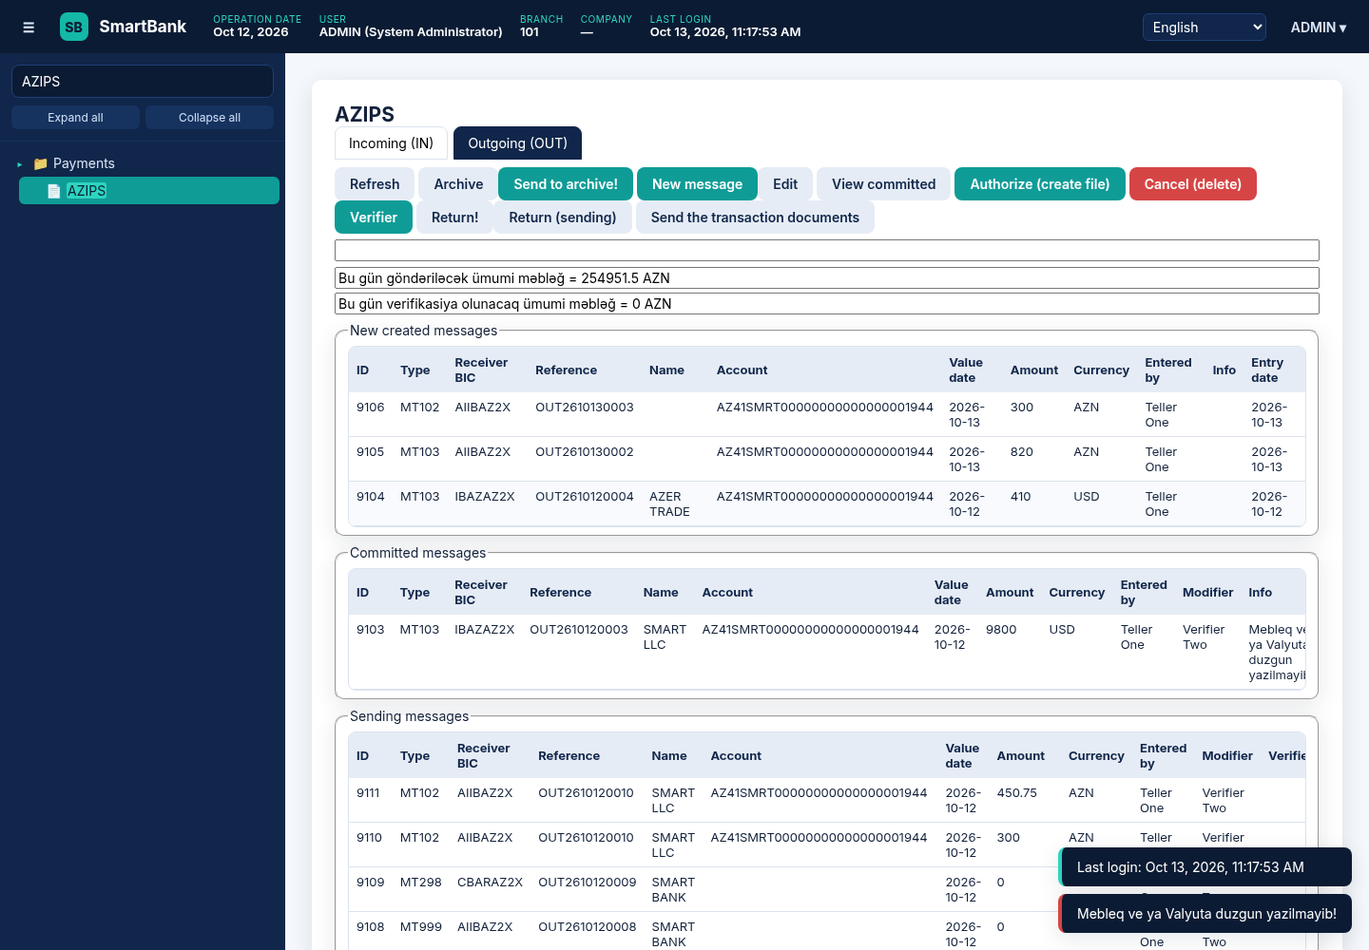
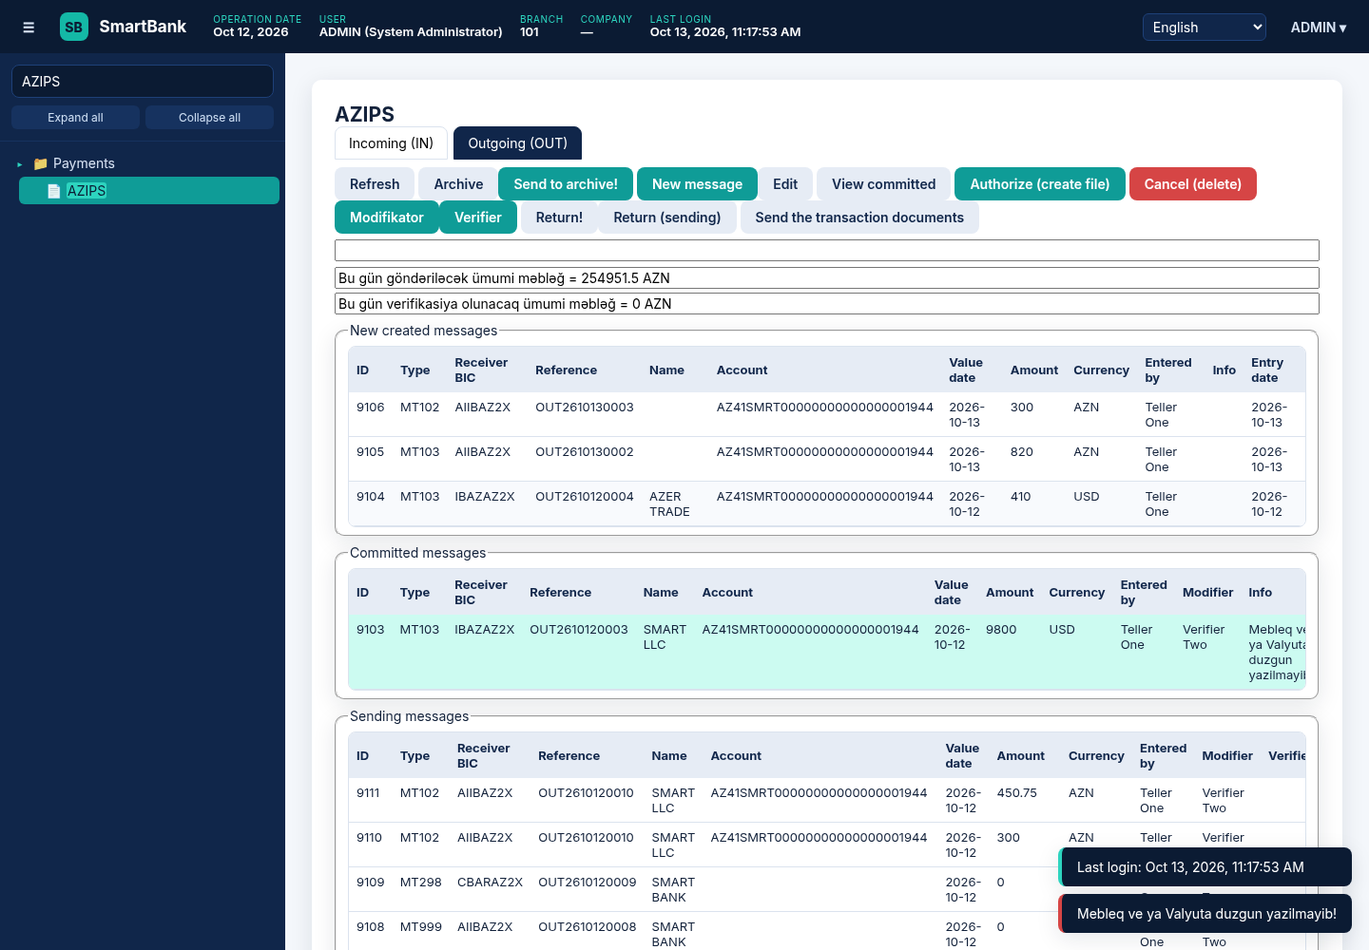
AZIPS part 4b-1: multi-select + Yes to all for row actions; Modifikator (ToolButton11Click -> addtrans2Execute :5146) via setprow/transac + sw_main.add_transaction; screenshots 119-121

Changed region(s): [[0.25, 0.62, 0.9688, 0.744], [0.25, 0.186, 0.7188, 0.248]]

diff --git a/smartbank-web/web/public/modules/azips.js b/smartbank-web/web/public/modules/azips.js
@@ -21,6 +21,40 @@
       <tbody>${rows.map((r, i) => `<tr data-i="${i}">${cols.map(c => `<td>${esc(val(r, c) ?? '')}</td>`).join('')}</tr>`).join('')
       || `<tr><td colspan="${cols.length}" class="muted">${esc(K('empty'))}</td></tr>`}</tbody></table>`;
   }
+  // dgMultiSelect grid (Grid_out, GRIDOUT2, Gridin): click = current row, Ctrl+click toggles SelectedRows (TBookmarkList)
+  function multi(tb, rows, st, key) {
+    const ms = key + '_m';
+    st[ms] = (st[ms] || []).filter(id => rows.some(r => r.id === id));
+    if (!rows.some(r => r.id === st[key])) st[key] = null;
+    const mark = () => tb.querySelectorAll('tbody tr[data-i]').forEach(tr => {
+      const id = rows[+tr.dataset.i].id; tr.classList.toggle('sel', st[ms].includes(id) || id === st[key]);
+    });
+    tb.querySelectorAll('tbody tr[data-i]').forEach(tr => tr.addEventListener('click', (e) => {
+      const id = rows[+tr.dataset.i].id;
+      if (e.ctrlKey || e.metaKey) st[ms] = st[ms].includes(id) ? st[ms].filter(x => x !== id) : [...st[ms], id];
+      else st[ms] = [id];
+      st[key] = id; mark();
+    }));
+    mark();
+  }
+  // MessageDlg(mtConfirmation, [mbYes, mbNo, mbCancel(, mbYesToAll)]) -> 'yes' | 'no' | 'cancel' | 'all'
+  function dlg(text, yesAll, noNo) {
+    return new Promise(res => modal(`<p>${esc(text)}</p><div class="actions">
+      <button class="btn" data-a="yes">${esc(K('yes'))}</button>${noNo ? '' : `<button class="btn secondary" data-a="no">${esc(K('no'))}</button>`}
+      <button class="btn secondary" data-a="cancel">${esc(K('cancel'))}</button>${yesAll ? `<button class="btn" data-a="all">${esc(K('yes_all'))}</button>` : ''}</div>`,
+      (m, close) => m.querySelectorAll('button[data-a]').forEach(b => b.onclick = () => { close(); res(b.dataset.a); })));
+  }
+  // The Delphi loop: per selected row (grid order) ask; mbYesToAll -> second dialog '%d sayda ...' with Count-Index (Yes / Cancel)
+  async function ask(ids, q, qa) {
+    const answers = [];
+    for (let i = 0; i < ids.length; i++) {
+      let a = await dlg(K(q).replace('%d', ids[i]), !!qa);
+      if (a === 'all') a = (await dlg(K(qa).replace('{n}', ids.length - i), false, true)) === 'yes' ? 'all' : 'all_no';
+      answers.push(a);
+      if (a === 'cancel' || a === 'all') break;
+    }
+    return answers;
+  }
   async function page(el) {
     const st = { tab: 'out', d: null, in_order: '', in2: '' };
     el.innerHTML = `<div class="card"><div class="toolbar" style="gap:8px"><h2 style="margin:0">${esc(K('title'))}</h2></div>
@@ -44,10 +78,8 @@
         v('g_in2').querySelectorAll('th[data-s]').forEach(h => h.onclick = () => { st.in2 = h.dataset.s; load({}); });
         v('z_arxin').onclick = () => arch('in');
         v('z_konv').onclick = () => v('z_konvf').click();
-        v('g_in').querySelectorAll('tbody tr[data-i]').forEach(tr => tr.onclick = () => {
-          v('g_in').querySelectorAll('tr').forEach(x => x.classList.toggle('sel', x === tr)); st.sel_in = d.sw_in[+tr.dataset.i].id;
-        });
-        v('z_indel').onclick = () => act('in_delete', st.sel_in, 'q_delete');      // ToolButton6Click -> DeleteExecute
+        multi(v('g_in'), d.sw_in, st, 'sel_in');
+        v('z_indel').onclick = () => act('in_delete', 'sel_in', 'q_delete', 'qa_delete');      // ToolButton6Click -> DeleteExecute
         v('z_konvf').onchange = (e) => { const f = e.target.files[0]; e.target.value = ''; if (f) konvert(f); };
       } else {
         v('zbody').innerHTML = `<div class="toolbar" style="gap:8px"><button class="btn secondary" id="z_ref">${esc(K('refresh'))}</button>
@@ -55,7 +87,7 @@
           <button class="btn" id="z_new">${esc(K('new_msg'))}</button><button class="btn secondary" id="z_edit">${esc(K('edit_msg'))}</button>
           <button class="btn secondary" id="z_view">${esc(K('view_msg'))}</button>
           <button class="btn" id="z_file" title="${esc(K('file_hint'))}">${esc(K('create_file'))}</button>
-          <button class="btn danger" id="z_odel">${esc(K('delete'))}</button><button class="btn" id="z_verify">${esc(K('verify'))}</button>
+          <button class="btn danger" id="z_odel">${esc(K('delete'))}</button><button class="btn" id="z_modif">${esc(K('modif'))}</button><button class="btn" id="z_verify">${esc(K('verify'))}</button>
           <button class="btn secondary" id="z_back">${esc(K('back'))}</button><button class="btn secondary" id="z_sback">${esc(K('sending_back'))}</button>
           <button class="btn secondary" id="z_tsend">${esc(K('transend'))}</button></div>
           <input class="input" readonly id="z_memo2" style="width:100%;margin-top:6px" value="${esc(st.memo2 || '')}">
@@ -63,10 +95,7 @@
           <input class="input" readonly id="z_s2" style="width:100%;margin-top:4px" value="${esc(d.sum_verify_text != null ? 'Bu gün verifikasiya olunacaq ümumi məbləğ = ' + d.sum_verify_text + ' AZN' : '')}">
           ${box(K('box_out'), table('g_out', C.out, d.sw_out))}${box(K('box_out2'), table('g_out2', C.out2, d.sw_out_2))}${box(K('box_out3'), table('g_out3', C.out3, d.sw_out3))}`;
         v('z_arxout').onclick = () => arch('out');
-        const pick = (gid, rows, key) => v(gid).querySelectorAll('tbody tr[data-i]').forEach(tr => tr.onclick = () => {
-          v(gid).querySelectorAll('tr').forEach(x => x.classList.toggle('sel', x === tr)); st[key] = rows[+tr.dataset.i].id;
-        });
-        pick('g_out', d.sw_out, 'sel_out'); pick('g_out2', d.sw_out_2, 'sel_out2');
+        multi(v('g_out'), d.sw_out, st, 'sel_out'); multi(v('g_out2'), d.sw_out_2, st, 'sel_out2');
         // Gridout3 (dgMultiSelect): click = current row, Ctrl+click toggles a selected row (TBookmarkList)
         st.sel3 = (st.sel3 || []).filter(id => d.sw_out3.some(r => r.id === id));
         const mark3 = () => v('g_out3').querySelectorAll('tbody tr[data-i]').forEach(tr => {
@@ -80,11 +109,12 @@
         });
         mark3();
         v('z_file').onclick = () => createFiles(d);
-        v('z_odel').onclick = () => act('out_delete', st.sel_out, 'q_delete');          // ToolButton9Click -> out_deleteExecute
-        v('z_back').onclick = () => act('out_back', st.sel_out2, 'q_back');             // opendayClick -> backClick -> geriExecute
+        v('z_odel').onclick = () => act('out_delete', 'sel_out', 'q_delete', 'qa_delete');
+        v('z_modif').onclick = () => act('modifikator', 'sel_out', 'q_modif', 'qa_modif');        // ToolButton11Click -> addtrans2Execute          // ToolButton9Click -> out_deleteExecute
+        v('z_back').onclick = () => act('out_back', 'sel_out2', 'q_back', 'qa_back');             // opendayClick -> backClick -> geriExecute
         v('z_verify').onclick = () => verify(d);                                        // ToolButton13Click -> commitingExecute + Form12
-        v('z_sback').onclick = () => act('sending_back', st.cur3, null);                // Geriqaytar1Click
-        v('z_tsend').onclick = () => act('transend', st.sel_out, null);                 // mliyyatGnnsndlringondrm1Click
+        v('z_sback').onclick = () => act('sending_back', null, null, null, st.cur3);                // Geriqaytar1Click
+        v('z_tsend').onclick = () => act('transend', null, null, null, st.sel_out);                 // mliyyatGnnsndlringondrm1Click
         const AE = window.SB.azipsEdit;
         const AN = window.SB.azipsNew;
         v('z_new').onclick = () => AN.open('1', 'toolbutton1', () => load({}));   // toolbar 'Yeni' = ToolButton1Click -> filereport.bpl 'Azipsnew' '1'
@@ -101,30 +131,50 @@
       v('z_ref').onclick = () => load({});
     }
     // part 4a row actions (api/app/azips_actions.py): MessageDlg per row -> answers sent with the request
-    async function act(kind, id, q, form12) {
-      if (id == null) return toast(K('pick_row'), 'error');
-      if (q && !confirm(K(q).replace('%d', id))) return;
+    // selected ids in grid order (TBookmarkList is sorted); none selected -> current row
+    function chosen(key) {
+      const rows = { sel_out: st.d.sw_out, sel_out2: st.d.sw_out_2, sel_in: st.d.sw_in }[key] || [];
+      const m = st[key + '_m'] || [];
+      return m.length ? rows.map(r => r.id).filter(id => m.includes(id)) : (st[key] != null ? [st[key]] : []);
+    }
+    async function act(kind, key, q, qa, single, form12, answers) {
+      const ids = key ? chosen(key) : (single != null ? [single] : []);
+      if (!ids.length) return toast(K('pick_row'), 'error');
+      if (q && !answers) { answers = await ask(ids, q, qa); if (!answers.some(a => a === 'yes' || a === 'all')) return; }
       try {
-        const r = await api(P + '/action', { method: 'POST', body: { kind, current: id, answers: (q || kind === 'out_commit') ? ['yes'] : [], form12: form12 || [] } });
+        const r = await api(P + '/action', { method: 'POST', body: { kind, selected: key ? (st[key + '_m'] || []) : [], current: key ? st[key] : single,
+          answers: answers || [], form12: form12 || [] } });
         if (r.memo2) st.memo2 = r.memo2;
         if (r.message) toast(r.message, r.wrong ? 'error' : undefined); else toast(K('done'));
+        if (key) st[key + '_m'] = [];
       } catch (e) { toast(errT(e), 'error'); }
       load({});
     }
+    // commitingExecute: [mbYes, mbNo, mbCancel] per row (no YesToAll), Form12 for each Yes; 'Çıx' or a mismatch exits the loop
     async function verify(d) {
-      const id = st.sel_out2;
-      if (id == null) return toast(K('pick_row'), 'error');
-      if (!confirm(K('q_verify').replace('%d', id))) return;
+      const ids = chosen('sel_out2');
+      if (!ids.length) return toast(K('pick_row'), 'error');
       let cur = [];
       try { cur = await api(P + '/commit-currencies'); } catch (e) { return toast(errT(e), 'error'); }
-      modal(`<h3>Avtorizasiya</h3><div class="toolbar" style="gap:8px"><select class="input" id="f12c">${cur.map(c => `<option>${esc(c)}</option>`).join('')}</select>
-        <input class="input" id="f12a" inputmode="decimal" placeholder="${esc(K('amount'))}"></div>
-        <div class="actions"><button class="btn" id="f12ok">Təsdiq et</button><button class="btn secondary" id="f12x">Çıx</button></div>`, (m, close) => {
-        const a = m.querySelector('#f12a');
-        a.onkeypress = (e) => { if (!/[0-9.]/.test(e.key)) e.preventDefault(); };      // Edit1KeyPress: 0..9, #8, '.'
-        m.querySelector('#f12ok').onclick = () => { close(); act('out_commit', id, null, [{ amount: a.value, curr: m.querySelector('#f12c').value }]).then(() => {}); };
-        m.querySelector('#f12x').onclick = () => { close(); act('out_commit', id, null, [{ close: true }]); };
-      });
+      const answers = [], forms = [];
+      for (const id of ids) {
+        const a = await dlg(K('q_verify').replace('%d', id), false);
+        answers.push(a);
+        if (a === 'cancel') break;
+        if (a !== 'yes') continue;
+        const f = await new Promise(res => modal(`<h3>Avtorizasiya #${esc(id)}</h3><div class="toolbar" style="gap:8px"><select class="input" id="f12c">${cur.map(c => `<option>${esc(c)}</option>`).join('')}</select>
+          <input class="input" id="f12a" inputmode="decimal" placeholder="${esc(K('amount'))}"></div>
+          <div class="actions"><button class="btn" id="f12ok">Təsdiq et</button><button class="btn secondary" id="f12x">Çıx</button></div>`, (m, close) => {
+          const a = m.querySelector('#f12a');
+          a.onkeypress = (e) => { if (!/[0-9.]/.test(e.key)) e.preventDefault(); };      // Edit1KeyPress: 0..9, #8, '.'
+          m.querySelector('#f12ok').onclick = () => { close(); res({ amount: a.value, curr: m.querySelector('#f12c').value }); };
+          m.querySelector('#f12x').onclick = () => { close(); res({ close: true }); };
+        }));
+        forms.push(f);
+        if (f.close) break;
+      }
+      if (!answers.includes('yes')) return;
+      act('out_commit', 'sel_out2', null, null, null, forms, answers);
     }
     async function load(extra) {
       try {

diff --git a/smartbank-web/api/app/azips_actions.py b/smartbank-web/api/app/azips_actions.py
@@ -173,3 +173,48 @@ def transend(conn, restricted, current):
         return {"done": []}
     conn.call_proc(Q.PKG_MAIN, "transend", [current, 999], commit=False)
     return {"done": [current]}
+
+
+# ------------------------------------------------------------------ part 4b: Modifikator
+import re as _re
+_IDENT = _re.compile(r"[A-Za-z][A-Za-z0-9_$#]{0,29}")
+
+
+class ProwError(ValueError):
+    """sw_prow column name that is not a plain Oracle identifier (Delphi would concatenate it into SQL as is)."""
+
+
+def modifikator(conn, restricted, selected, current, answers):
+    """ToolButton11Click :3097 (SW_OUT_COMMIT right; empty grid -> ShowMessage 'Heç bir format yoxdur!') ->
+    addtrans2Execute :5146-5260: per selected grid_out row, setprow(:Q = MESSAGETYPE), transac SQL[0] rebuilt from the
+    sw_prow column names, sw_main.add_transaction(ID, debet, kredit, summa, MF32A_DATE, DESTINATION, vbic, tax, k1);
+    one SBSession.Commit after the loop. vbic is only assigned when KREDIT = 'RECEIVERBIC' and keeps its value for the
+    following rows (local string, '' at start); k1 is never assigned (WorldCheck commented out) -> 0."""
+    conn.call_proc("SB_ACA", "CheckAdvancedObjectAccess", ["SW_OUT_COMMIT"])
+    rows = _rows(conn, Q.LINES_SW_OUT, restricted)
+    if not rows:
+        return {"done": [], "message": AZN_NO_FORMAT}
+    by_id = {r.get("ID"): r for r in rows}
+    sel = _pick(rows, selected, current)
+    st = {"vbic": ""}
+
+    def one(tid):
+        g = by_id[tid]
+        p = (conn.query(Q.text(Q.LINES_SETPROW), {"Q": str(g.get("MESSAGETYPE") or "")}) or [{}])[0]
+        kredit = str(p.get("KREDIT") or "")
+        if kredit.strip() == "RECEIVERBIC":
+            st["vbic"] = "BIC"
+        debet, summa = str(p.get("DEBET") or ""), str(p.get("SUMM") or "")
+        for x in (kredit, debet, summa):
+            if not _IDENT.fullmatch(x):
+                raise ProwError(x)
+        t = (conn.query(Q.transac_sql0(kredit, debet, summa), {"ids1": int(g.get("ID") or 0)}) or [{}])[0]
+        sm = t.get("SUMMA")
+        conn.call_proc(Q.PKG_MAIN, "add_transaction",
+                       [int(t.get("ID") or 0), str(t.get("DEBET") or ""), str(t.get("KREDIT") or ""),
+                        float(sm) if sm is not None else 0.0, g.get("MF32A_DATE"), str(t.get("DESTINATION") or ""),
+                        st["vbic"], str(g.get("TAX") or ""), 0], commit=False)
+
+    done, _ = _run(sel, answers, one)
+    conn.commit()
+    return {"done": done, "message": None}

diff --git a/smartbank-web/e2e/azips_actions_screens.py b/smartbank-web/e2e/azips_actions_screens.py
@@ -1,4 +1,4 @@
-"""AZIPS part 4a E2E + screenshots: Verifikator + Form12 (commitingExecute / yoxp.pas) with a wrong amount, and Ləğv et (out_delete)."""
+"""AZIPS part 4a/4b E2E (multi-select + Yes to all, Modifikator) + screenshots: Verifikator + Form12 (commitingExecute / yoxp.pas) with a wrong amount, and Ləğv et (out_delete)."""
 import os, sys
 from playwright.sync_api import sync_playwright
 BASE = sys.argv[1] if len(sys.argv) > 1 else "http://localhost:3000"
@@ -13,12 +13,20 @@ with sync_playwright() as p:
     pg.fill("#u", "ADMIN"); pg.fill("#p", "Admin#2026"); pg.click("#loginBtn"); pg.wait_for_selector("#tree .node")
     pg.fill("#treeSearch", "AZIPS"); pg.wait_for_timeout(300)
     pg.locator("#tree .node[data-path='9.0']").click(); pg.wait_for_selector("#g_out2 tr[data-i='0']")
-    pg.click("#g_out2 tr[data-i='0']"); pg.click("#z_verify"); pg.wait_for_selector("#f12a")
+    pg.click("#g_out2 tr[data-i='0']"); pg.click("#z_verify"); pg.click("button[data-a='yes']"); pg.wait_for_selector("#f12a")
     pg.fill("#f12a", "1"); shot(pg, "114-azips-verifikator-form12.png")
     pg.click("#f12ok"); pg.wait_for_timeout(800)
     assert "Mebleq ve ya Valyuta duzgun yazilmayib!" in pg.inner_text("#g_out2")
     shot(pg, "115-azips-verifikator-wrong-amount.png")
-    pg.click("#g_out tr[data-i='0']"); pg.click("#z_odel"); pg.wait_for_timeout(800)
+    # Modifikator on two Ctrl+selected rows: Yes to all -> '2 sayda ...' second dialog
+    pg.click("#g_out tr[data-i='0']"); pg.click("#g_out tr[data-i='1']", modifiers=["Control"])
+    assert pg.locator("#g_out tr.sel").count() == 2
+    pg.click("#z_modif"); pg.wait_for_selector("button[data-a='all']"); shot(pg, "119-azips-modifikator-yes-to-all.png")
+    pg.click("button[data-a='all']"); pg.wait_for_selector(".modal p")
+    assert "2" in pg.inner_text(".modal p"); shot(pg, "120-azips-modifikator-confirm-all.png")
+    pg.click("button[data-a='yes']"); pg.wait_for_timeout(800)
+    shot(pg, "121-azips-modifikator-done.png")
+    pg.click("#g_out tr[data-i='0']"); pg.click("#z_odel"); pg.click("button[data-a='yes']"); pg.wait_for_timeout(800)
     assert pg.input_value("#z_memo2")
     shot(pg, "116-azips-out-delete.png")
     b.close()

diff --git a/smartbank-web/api/app/db/mock_azips.py b/smartbank-web/api/app/db/mock_azips.py
@@ -219,6 +219,12 @@ def _azf_query(D, sql, L, b):
     if sql == Q.text(Q.LINES_SW_SETTINGS):
         return [dict(D["sw_settings"])]
     sel = lambda ref: [r for r in D["sw_out_new"] if r.get("MF20_REFERENCE") == ref]      # noqa: E731
+    if L[0] == Q.LINES_SETPROW[0]:          # part 4b, illustrative sw_prow
+        return [dict(r) for r in D.get("sw_prow", []) if r["FORMAT"] == b.get("Q")]
+    m = re.fullmatch(r"select a\.(\w+) as kredit, a\.(\w+) as debet, a\.(\w+) as summa, a\.mf70 as destination, id  from sw_out_new a where a\.id=:ids1 ", sql)
+    if m:
+        return [{"KREDIT": r.get(m.group(1)), "DEBET": r.get(m.group(2)), "SUMMA": r.get(m.group(3)), "DESTINATION": r.get("MF70"),
+                 "ID": r["ID"]} for r in D["sw_out_new"] if r["ID"] == b.get("ids1")]
     if L[0] == Q.LINES_MT102DATA[0]:
         return _rows([r for r in sel(b.get("refer")) if r["MESSAGETYPE"] == "MT102" and r["STATUS"] == 1])
     if L[0] == Q.LINES_MT102SUM[0]:
@@ -259,11 +265,12 @@ def _azf_proc(D, key, args):
         return {}
     # part 4a, illustrative only (sw_main body not in the repo)
     if key in ("SW_MAIN.SW_OUT_DELETE", "SW_MAIN.SW_OUT_BACK", "SW_MAIN.SW_OUT_COMMIT", "SW_MAIN.TRANSEND",
-               "SW_MAIN.DEL_STD_TRANSACTION"):
+               "SW_MAIN.DEL_STD_TRANSACTION", "SW_MAIN.ADD_TRANSACTION"):
         D.setdefault("in_calls", []).append([key, list(args)])
         rid = args[1] if key == "SW_MAIN.DEL_STD_TRANSACTION" else args[0]
         new = {"SW_MAIN.SW_OUT_DELETE": 96, "SW_MAIN.SW_OUT_BACK": 2, "SW_MAIN.SW_OUT_COMMIT": 1,
-               "SW_MAIN.TRANSEND": None, "SW_MAIN.DEL_STD_TRANSACTION": 5}[key]
+               "SW_MAIN.TRANSEND": None, "SW_MAIN.DEL_STD_TRANSACTION": 5,
+               "SW_MAIN.ADD_TRANSACTION": 5}[key]
         for r in D["sw_out_new"]:
             if r["ID"] == rid and new is not None:
                 r["STATUS"] = new

diff --git a/smartbank-web/api/tests/test_azips_actions.py b/smartbank-web/api/tests/test_azips_actions.py
@@ -67,3 +67,28 @@ def test_in_delete_and_currencies():
     r = A.in_delete(c, list(Q.LINES_SW_IN), [i[0]], None, ["yes"])
     assert r["done"] == [i[0]] and i[0] not in ids(c, Q.LINES_SW_IN)
     assert A.commit_currencies(c)
+
+
+def test_modifikator_add_transaction():
+    """addtrans2Execute :5146: setprow(:Q=MESSAGETYPE) -> transac SQL[0] -> sw_main.add_transaction(...); vbic 'BIC' when
+    KREDIT='RECEIVERBIC'; k1 = 0; YesToAll = no further questions."""
+    c = conn(); rows = c.query(Q.text(Q.LINES_SW_OUT)); out = [r["ID"] for r in rows]
+    r = A.modifikator(c, False, out, None, ["all"])
+    assert r["done"] == out
+    adds = [a for k, a in calls() if k == "SW_MAIN.ADD_TRANSACTION"]
+    assert len(adds) == len(out)
+    x = rows[0]
+    assert adds[0][:4] == [x["ID"], x["MF50_ACCOUNT"], x["RECEIVERBIC"], float(x["MF32A_AMOUNT"])]
+    assert adds[0][5] == (x.get("MF70") or "") and adds[0][6] == "BIC" and adds[0][8] == 0
+
+
+def test_modifikator_empty_and_bad_prow():
+    c = conn()
+    for r in mock_azips._load()["sw_out_new"]:
+        r["STATUS"] = 1
+    assert A.modifikator(c, False, [], None, [])["message"] == A.AZN_NO_FORMAT
+    c = conn(); mock_azips._load()["sw_prow"][0]["DEBET"] = "x from dual--"
+    out = [r["ID"] for r in c.query(Q.text(Q.LINES_SW_OUT)) if r["MESSAGETYPE"] == "MT103"]
+    import pytest
+    with pytest.raises(A.ProwError):
+        A.modifikator(c, False, out[:1], None, ["yes"])

diff --git a/smartbank-web/api/app/azips.py b/smartbank-web/api/app/azips.py
@@ -192,7 +192,7 @@ class Form12In(BaseModel):
 
 
 class ActionIn(BaseModel):
-    kind: Literal["out_delete", "out_back", "out_commit", "in_delete", "sending_back", "transend"]
+    kind: Literal["out_delete", "out_back", "out_commit", "in_delete", "sending_back", "transend", "modifikator"]
     selected: list[int] = Field(default_factory=list, max_length=1000)
     current: int | None = None
     answers: list[Literal["yes", "no", "cancel", "all", "all_no"]] = Field(default_factory=list, max_length=1000)
@@ -283,6 +283,11 @@ def make_router(current, require_module, err):
             return A.in_delete(c, lines, b.selected, b.current, b.answers)
         if b.kind == "sending_back":
             return A.sending_back(c, rs, b.current)
+        if b.kind == "modifikator":
+            try:
+                return A.modifikator(c, rs, b.selected, b.current, b.answers)
+            except A.ProwError:
+                err(400, "azips.prow_bad")
         return A.transend(c, rs, b.current)
 
     @r.get("/commit-currencies")

diff --git a/smartbank-web/api/app/azips_sql.py b/smartbank-web/api/app/azips_sql.py
@@ -74,3 +74,14 @@ BRANCH_LINE = 'and branch  = (SELECT filialid FROM sba_objinf WHERE obj = (SELEC
 PKG_MAIN = 'sw_main'          # Unit2.dfm:920-922 sw_in_insert TOraclePackage PackageName
 # Unit2.dfm:5043-5046 ValuteForCommit (yoxp.pas Form12 DBLookupComboBox1: KeyField VALU_NAME, ListField VAL_NAME)
 LINES_VALUTEFORCOMMIT = ['select * from avalute', '']
+
+# part 4b: Modifikator (addtrans2Execute :5146) - Unit2.dfm:3669-3671 setprow, :3729-3731 transac (SQL[0] rebuilt at :5205-5207)
+LINES_SETPROW = ['select * from sw_prow where format=:Q']
+LINES_TRANSAC = ['select  *  from  sw_out_new where id=:ids1']
+
+
+def transac_sql0(kredit, debet, summa):
+    """SWIFT_MAINImpl1.pas:5205-5207 verbatim concatenation (column names come from sw_prow)."""
+    return ('select a.' + kredit + ' as kredit, a.' + debet + ' as debet, a.' + summa + ' as summa, '
+            + 'a.mf70'
+            + ' as destination, id ' + ' from sw_out_new a where a.id=:ids1 ')

diff --git a/smartbank-web/docs/PARITY_AZIPS.md b/smartbank-web/docs/PARITY_AZIPS.md
@@ -236,7 +236,20 @@ Loop semantics are kept: SelectedRows, or the current row when nothing is select
 YesToAll (second dialog). The browser asks first and sends the answers in order. `exit` inside the commiting loop skips the final
 `SBSession.Commit`, so `sw_out_commit` calls made before it stay uncommitted in the user's session, as in Delphi. Memo2 uses the loop
 variable after the loop. Delphi leaves that undefined after a completed loop; the web uses the last index (Count-1).
-Not ported yet: ToolButton11Click "Modifikator" → `addtrans2Execute` :5146.
+Part 4b (done): the browser now supports multi-select on Grid_out, GRIDOUT2 and Gridin (click = row, Ctrl+click toggles
+SelectedRows, actions use grid order, none selected = current row) and asks per row with Yes / No / Cancel / Yes to all; Yes to
+all opens the second `'%d sayda ...'` dialog (Count-Index, Yes / Cancel only). Verifikator asks Yes / No / Cancel per row (no Yes
+to all, as Delphi) and shows Form12 for each Yes; the server stops at the first Form12 mismatch or `Çıx`, so any later forms
+are ignored. Screenshots 119-121.
+
+| Delphi | Right | Call |
+|---|---|---|
+| ToolButton11Click :3097 "Modifikator" → addtrans2Execute :5146-5260 | SW_OUT_COMMIT (empty grid_out → `Heç bir format yoxdur!`) | per row: setprow `select * from sw_prow where format=:Q` (Unit2.dfm:3671, :Q = MESSAGETYPE); transac SQL[0] rebuilt verbatim from KREDIT/DEBET/SUMM (:5205-5207); `sw_main.add_transaction(ID, debet, kredit, summa, MF32A_DATE, DESTINATION(=mf70), vbic, tax, k1)`; one Commit after the loop |
+
+Modifikator details: `vbic` is set to `'BIC'` only when KREDIT = `RECEIVERBIC` and keeps that value for later rows, as the Delphi
+local does. `k1` is never assigned in Delphi (WorldCheck is commented out) and is sent as 0. **Deliberate difference:** the
+sw_prow column names are checked as plain Oracle identifiers before they are concatenated into the SQL. A bad value returns
+`azips.prow_bad` instead of running. Unverified: what `add_transaction` does (the mock moves the row to status 5).
 
 ## Single worker
 Each user's Oracle session (with uncommitted work) and the Azipsnew interpreter form state live in the API process. The API is
@@ -251,7 +264,7 @@ between processes.
 - The function columns come back from Oracle named like `SW_MAIN.FIND_USERNAME_OUT(S.ID)`; the web reads them by that name.
 
 ## Resume point
-Part 4a (row actions, see §4a) is done. Next is part 4b: Modifikator `addtrans2Execute` :5146, incoming postings (`comitClick` :3906 → `AddINTransNewExecute`
+Parts 4a and 4b-1 (row actions, multi-select / Yes to all, Modifikator, see §4a) are done. Next: incoming postings (`comitClick` :3906 → `AddINTransNewExecute`
 :7118, `AddInTransExecute` :4015, `AddTransExecute` :3629), account checks (`ceskingClick` :5330, Checkacc, acc_check, Tranzit_account,
 `Hesabiyoxla1Click` :4323), IN edit (`ToolButton5Click` → Unit4), settings (ToolButton10/12 → insett / AzipsSett, MTsett, Unit3), prints
 (`ToolButton8Click` :6179, printClick :3984, cap, qrp1, qr5, qrp5), UFX credit (UFX71, `ufxcredit` :6931), template load
